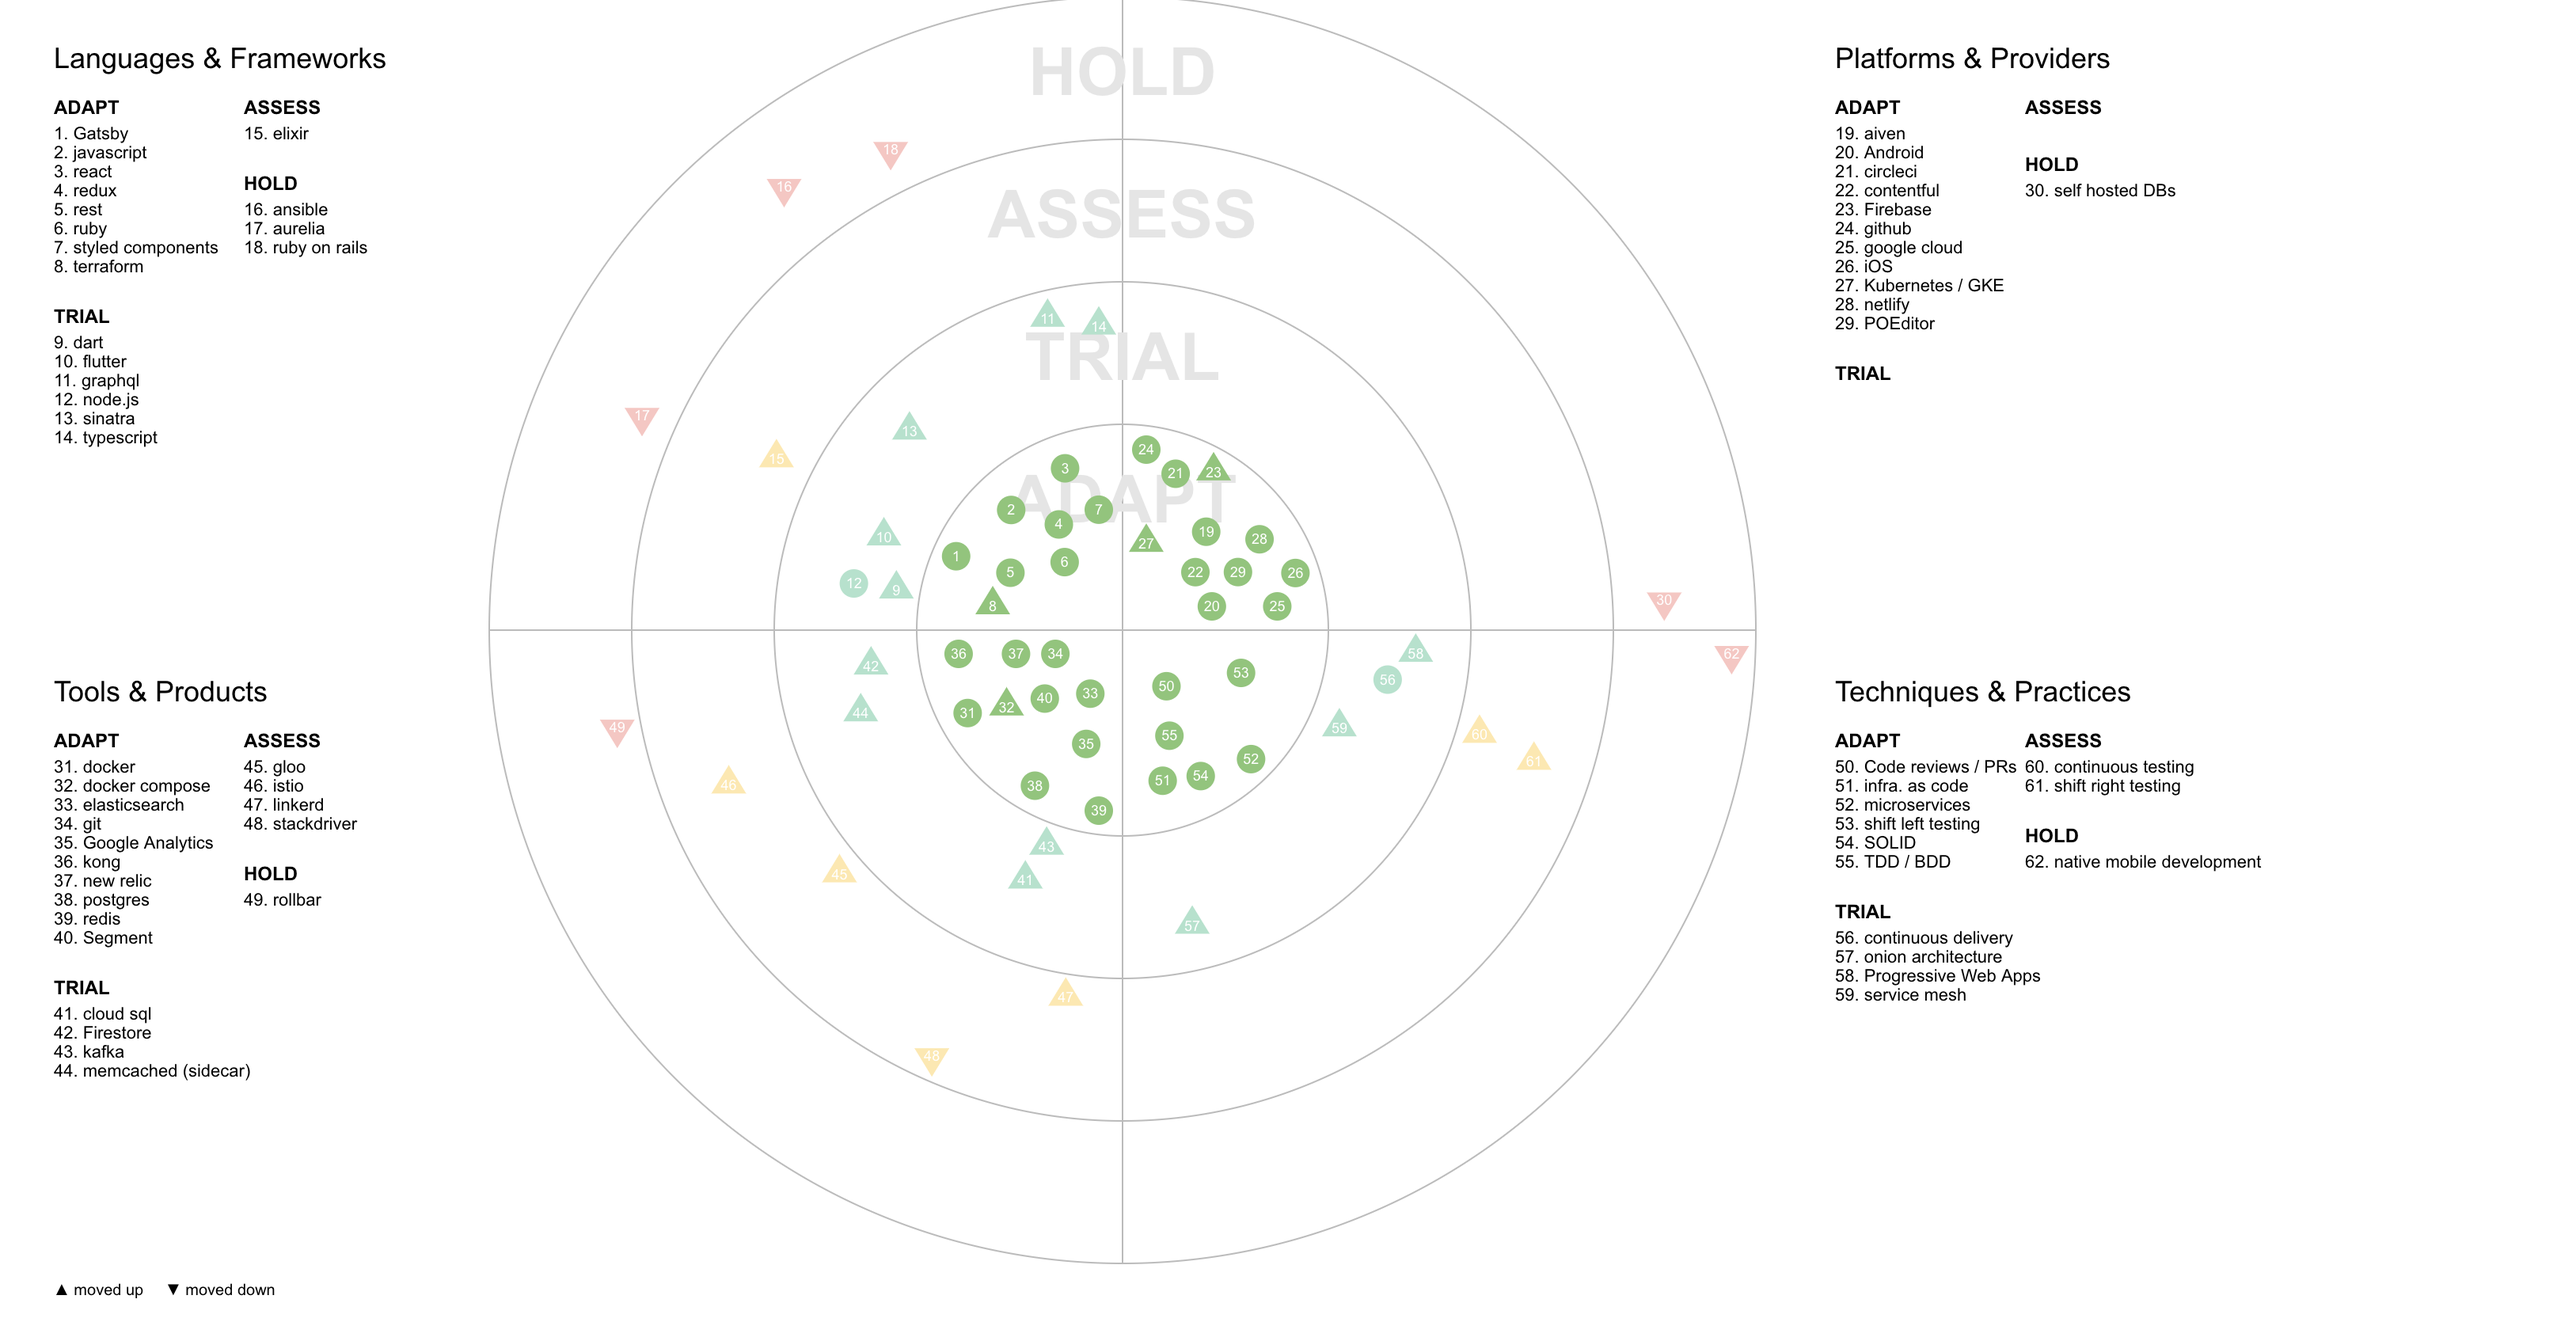
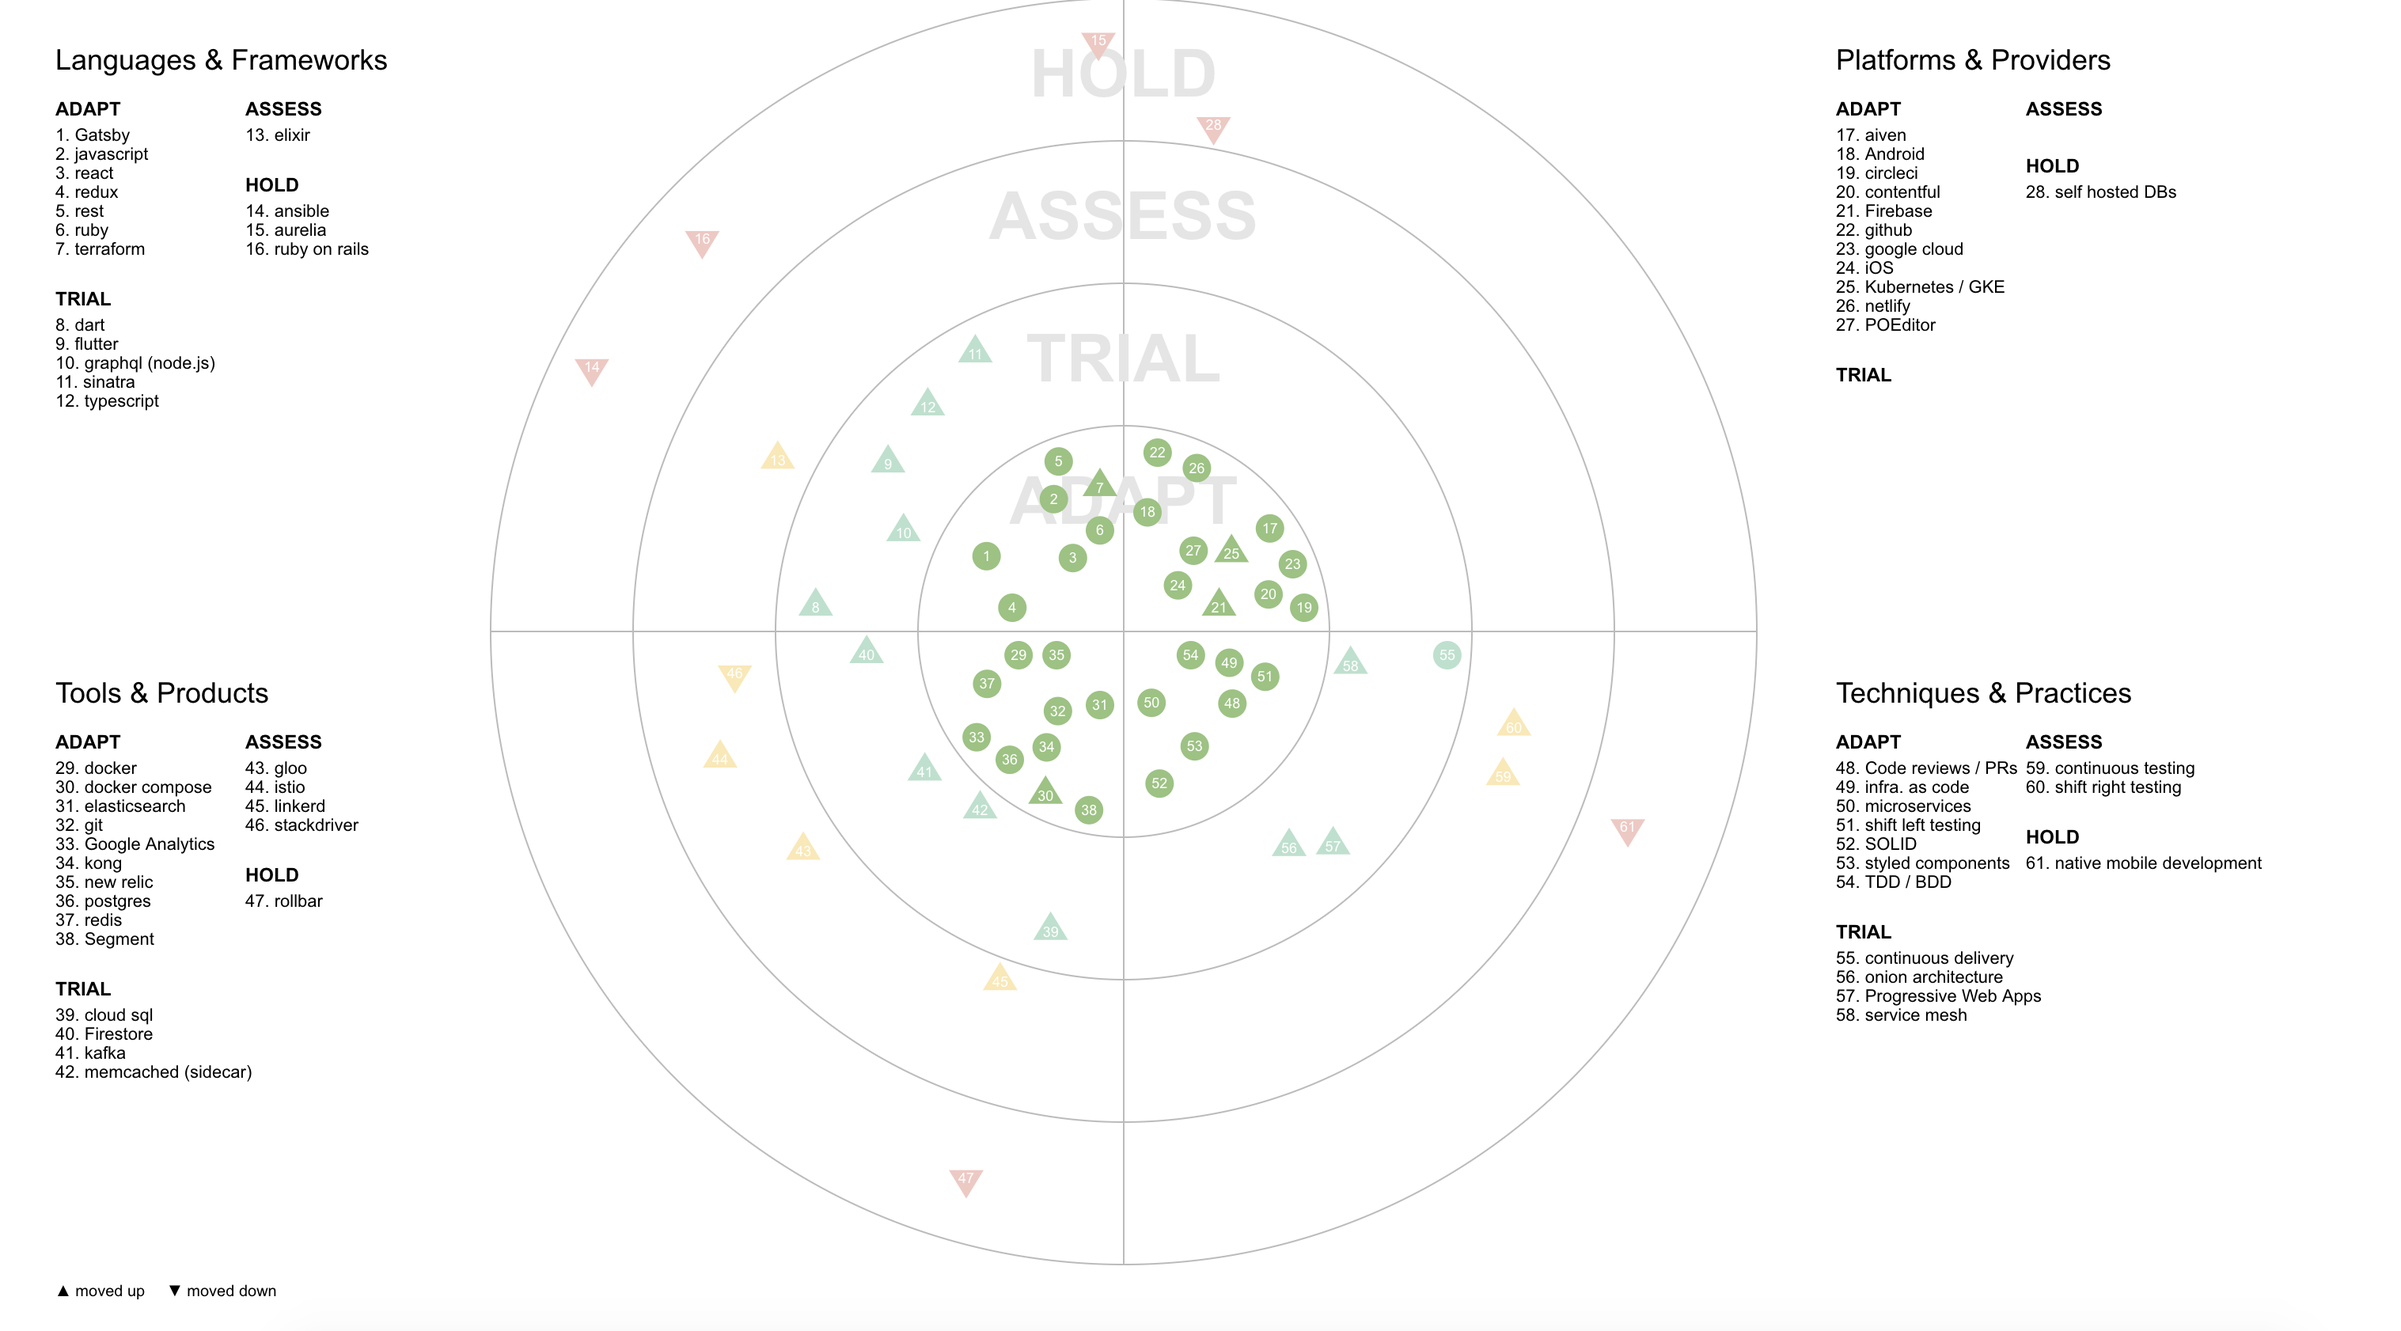
removed node.js as seperate entry

diff --git a/radar_data.js b/radar_data.js
@@ -49,12 +49,6 @@ const radar_data = {
       moved: 1
     },
     {
-      label: "node.js",
-      quadrant: 2,
-      ring: 1,
-      moved: 0
-    },
-    {
       label: "redux",
       quadrant: 2,
       ring: 0,
@@ -283,7 +277,7 @@ const radar_data = {
       moved: -1
     },
     {
-      label: "graphql",
+      label: "graphql (node.js)",
       quadrant: 2,
       ring: 1,
       moved: 1
